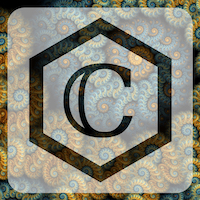
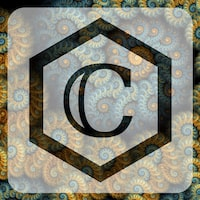
Terf -> Virtend; shrink some project thumbnails

diff --git a/_projects/virtend.md b/_projects/virtend.md
@@ -1,6 +1,6 @@
 ---
-title:      Immersive Terf
-img-src:    projects/terf.png
+title:      Virtend™
+img-src:    projects/virtend.png
 href:       https://www.3dicc.com/
 ---
 An immersive platform delivering unified collaboration, gaming technology, and 3D virtual locations
